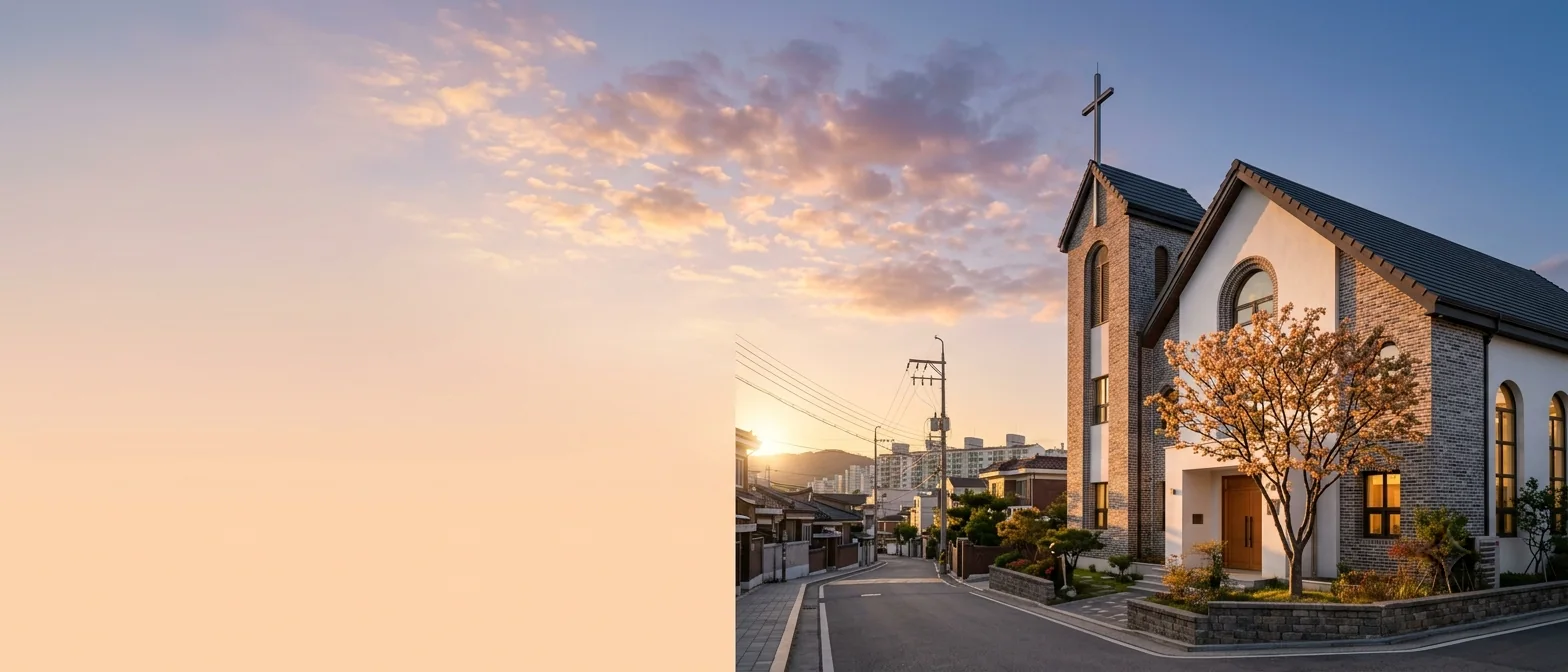
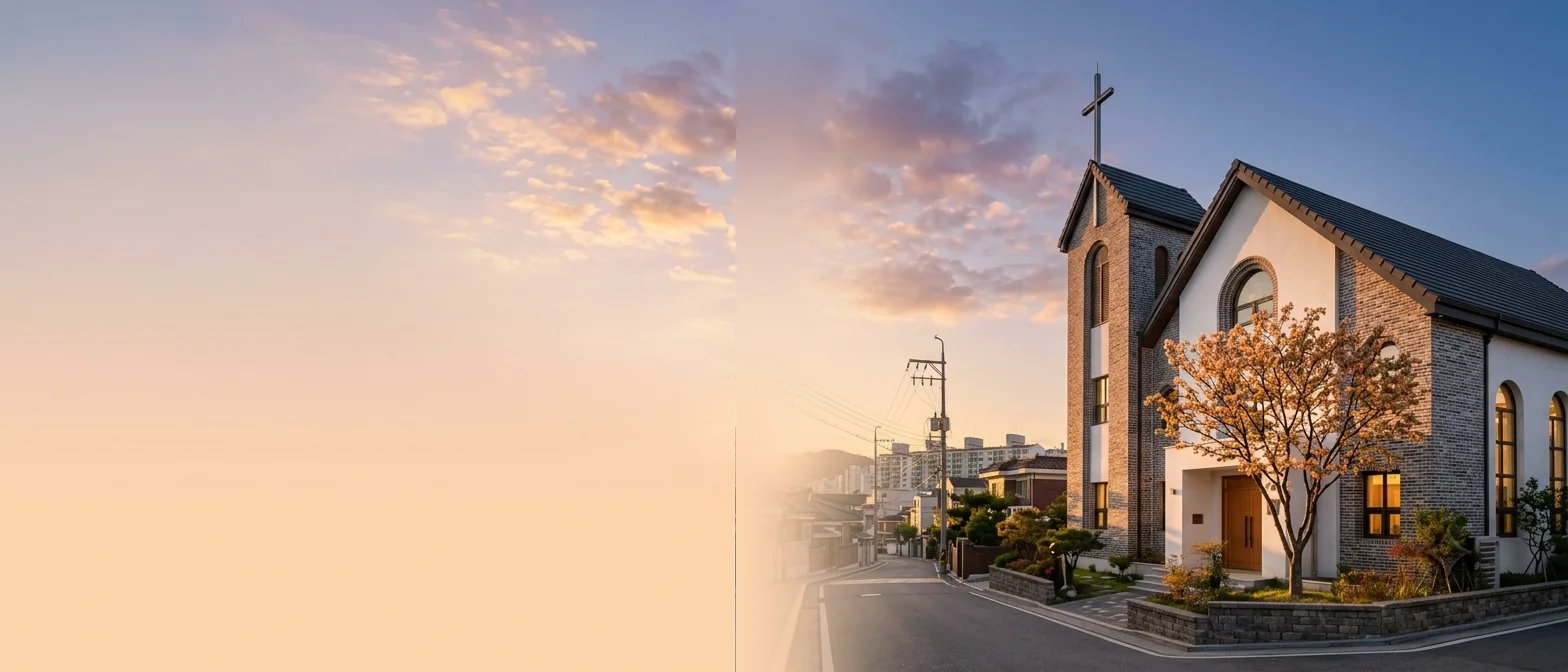
ux배경개선

Changed region(s): [[0.4688, 0.5938, 0.5938, 1.0], [0.4688, 0.1875, 0.5312, 0.3438]]

diff --git a/frontend/src/pages/Bible/Plans/PlanList.tsx b/frontend/src/pages/Bible/Plans/PlanList.tsx
@@ -391,6 +391,10 @@ const Hashtags = ({ plan }: { plan: PlanSummary }) => {
 
 // 카드 비주얼(감성 그래픽): accent 그라데이션 + 글로우 + 이모지.
 // 추후 커버 이미지가 생기면 이 컴포넌트만 <img>로 교체하면 됨.
+// 세로 띠 커버의 오른쪽 끝 — 카드 바탕색으로 서서히 녹여 이미지/텍스트 경계선을 지운다
+const STRIP_MASK =
+  'linear-gradient(to right, #000 0%, #000 78%, rgba(0,0,0,0.5) 92%, transparent 100%)'
+
 const PlanVisual = ({
   plan,
   size,
@@ -404,23 +408,31 @@ const PlanVisual = ({
   // 이모지 배지 — 사진 위에선 좌상단 작은 유리 배지, 그라데이션 폴백에선 중앙 크게
   const badgeSize = size === 'feed' ? 'text-[15px]' : 'text-[17px]'
 
-  // 실제 커버 사진이 있으면 사진을 배경으로 — 브랜드 톤/가독성을 위해 위에 살짝 틴트를 얹는다
+  // 실제 커버 그림이 있으면 배경으로 — 수채 일러스트라 틴트는 아주 옅게만 얹는다
   if (cover) {
+    // 가로형 카드의 세로 띠(104px)는 3:2 그림의 한가운데(빈 안개)만 잘려 '반쪽'처럼 보인다.
+    // 주인공이 있는 오른쪽을 기준으로 자르고, 오른쪽 끝은 카드 바탕으로 녹여 한 장처럼 잇는다.
+    const strip = size === 'feature'
     return (
-      <div className="relative h-full w-full overflow-hidden bg-gray-200 dark:bg-white/5">
-        <img
-          src={cover}
-          alt=""
-          loading="lazy"
-          className="absolute inset-0 h-full w-full object-cover"
-        />
-        {/* 브랜드 틴트(블루, 저채도) — 사진마다 다른 색감을 하나의 톤으로 묶는다 */}
-        <div className="absolute inset-0 bg-[linear-gradient(135deg,rgba(49,130,246,0.30),rgba(96,165,250,0.18))] mix-blend-multiply" />
-        {/* 하단 그라데이션 — 이모지 배지 대비 확보 */}
-        <div className="absolute inset-0 bg-gradient-to-t from-black/35 via-transparent to-black/10" />
-        {/* 이모지 유리 배지 — 사진 위에 플랜 정체성을 한 점 남긴다 */}
+      <div className={`relative h-full w-full overflow-hidden ${strip ? '' : 'bg-gray-100 dark:bg-white/5'}`}>
+        <div
+          className="absolute inset-0"
+          style={strip ? { maskImage: STRIP_MASK, WebkitMaskImage: STRIP_MASK } : undefined}
+        >
+          <img
+            src={cover}
+            alt=""
+            loading="lazy"
+            className={`absolute inset-0 h-full w-full object-cover ${strip ? 'object-[85%_50%]' : ''}`}
+          />
+          {/* 브랜드 틴트(블루, 저채도) — 그림마다 다른 색감을 하나의 톤으로 묶는다 */}
+          <div className="absolute inset-0 bg-[linear-gradient(135deg,rgba(49,130,246,0.14),rgba(96,165,250,0.06))] mix-blend-multiply" />
+        </div>
+        {/* 이모지 배지 뒤만 살짝 눌러 대비 확보 (예전 전면 검정 그라데이션은 그림을 탁하게 만든다) */}
+        <div className="absolute inset-0 bg-[radial-gradient(circle_at_16%_12%,rgba(15,23,42,0.26),transparent_48%)]" />
+        {/* 이모지 유리 배지 — 그림 위에 플랜 정체성을 한 점 남긴다 */}
         <span
-          className={`absolute left-2 top-2 inline-flex items-center justify-center ${badgeSize} leading-none rounded-full w-7 h-7 bg-white/20 backdrop-blur-md ring-1 ring-white/30 shadow-sm select-none`}
+          className={`absolute left-2 top-2 inline-flex items-center justify-center ${badgeSize} leading-none rounded-full w-7 h-7 bg-white/25 backdrop-blur-md ring-1 ring-white/40 shadow-sm select-none`}
         >
           {emoji}
         </span>

diff --git a/frontend/src/pages/Visit/Visit.css b/frontend/src/pages/Visit/Visit.css
@@ -73,7 +73,7 @@
   width: 100%;
   height: 100%;
   object-fit: cover;
-  object-position: center 40%;
+  object-position: right top;
   z-index: -2;
 }
 
@@ -197,18 +197,14 @@
   font-weight: 700;
   letter-spacing: -0.01em;
   color: var(--text-strong);
-  overflow: hidden;
-  text-overflow: ellipsis;
-  white-space: nowrap;
+  overflow-wrap: anywhere;
 }
 
 .visit-route-desc {
   max-width: 100%;
   font-size: 11.5px;
   color: var(--text-muted);
-  overflow: hidden;
-  text-overflow: ellipsis;
-  white-space: nowrap;
+  overflow-wrap: anywhere;
 }
 
 .visit-route-badge {
@@ -794,8 +790,8 @@
 
   /* ── Hero — 넓어진 무대에 맞춰 한 단계 키운다 ── */
   .visit-hero-photo {
-    min-height: 210px;
-    padding: 26px 32px 28px;
+    min-height: 260px;
+    padding: 26px 32px 30px;
   }
 
   .visit-hero-title {

diff --git a/frontend/src/pages/History/History.css b/frontend/src/pages/History/History.css
@@ -1221,7 +1221,13 @@
   .history-rail-list--scroll {
     max-height: 40vh;
     overflow-y: auto;
+    /* 링크가 hover 필 때문에 좌우로 8px씩 삐져나오는데(음수 margin),
+       스크롤 상자 안에서는 그게 가로 스크롤바로 나타난다 — 가로는 잘라낸다 */
+    overflow-x: hidden;
     scrollbar-width: thin;
+    scrollbar-gutter: stable;
+    padding: 0 8px;
+    margin: 0 -8px;
   }
 
   .history-rail-link {
